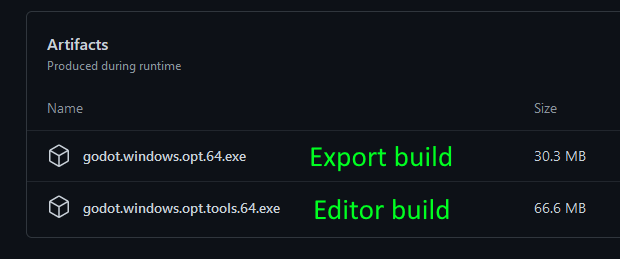
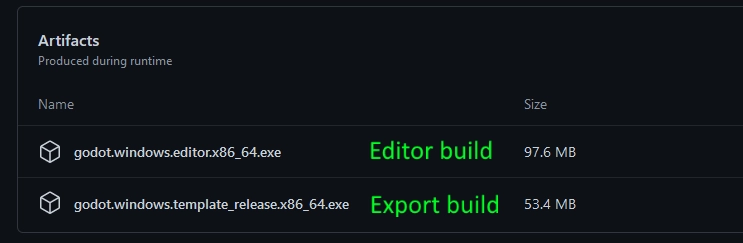
Document how to export with the module

diff --git a/doc/source/getting_the_module.md b/doc/source/getting_the_module.md
@@ -28,7 +28,7 @@ Available on Github Actions:
 These builds correspond to the `master` version depicted in the [changelog](https://github.com/Zylann/godot_voxel/blob/master/CHANGELOG.md).
 A new build is made each time commits are pushed to the main branch, but also when other developers make Pull Requests, so careful about which one you pick.
 
-In case there are multiple downloadable artifacts, the editor build will be the one with `opt.tools` in the name (because it is built with optimizations enabled, and includes tools).
+In case there are multiple downloadable artifacts, the editor build will be the one with `editor` in the name.
 
 ![Github actions screenshot](images/github_actions_windows_artifacts.webp)
 
@@ -88,3 +88,31 @@ If you cloned Godot and Voxel Tools, you can use git to update your local code.
 
 !!! note
 	Since you are pulling from two development branches, it's probable that on occasion your build won't compile, your project won't open, or your Voxel Tools won't work properly or even crash Godot. To minimize downtime, save your successful builds. Move them out of the build folder and rename them with the version number (e.g. godot-3.2+ee5ba3e.exe). This way, you can continue to use previously working builds until the Godot or Voxel developers fix whatever is broken. It is generally desired by all that code published to repositories will at least build, but stuff happens.
+
+
+Export templates
+-------------------
+
+### Getting a template
+
+In Godot Engine, exporting your game as an executable for a target platform requires a "template". A template is an optimized build of Godot Engine without the editor stuff. Godot combines your project files with that template and makes the final executable.
+
+If you only download the Godot Editor with the module, it will allow you to develop and test your game, but if you export without any other setup, Godot will attempt to use a vanilla template, which won't have the module. Therefore, it will fail to open some scenes.
+
+As mentionned in earlier sections, there are currently no "official" builds of this module, but you can get template builds at the same place as [latest development versions](#development-builds). Template builds are those with `template` in their name.
+
+If there is no template available for your platform, you may build it yourself. This is the same as building Godot with the module, only with different options. See the [Godot Documentation](https://docs.godotengine.org/en/latest/development/compiling/index.html) for more details, under the "building export templates" category of the platform you target.
+
+### Using a template
+
+Once you have a template build, tell Godot to use it in the Export configurations. Fill in the path to a custom template in the "Custom Template" section:
+
+![Screenshot of Godot export configuration window with a custom template assigned for Windows](images/export_template_window.webp)
+
+### GDExtension
+
+In the future, it is hoped that none of this manual work is required. Rather than getting a custom version of the engine, you would download Voxel from the asset library. Developping, testing, exporting would just work without extra setup.
+
+GDExtension is what would make this possible. This module can already [compile with GodotCpp](module_development.md#gdextension) so it can be loaded as a GDExtension library.
+Unfortunately, there are still [too many problems](https://github.com/Zylann/godot_voxel/issues/442) for the module to work properly. For the time being, a custom engine build is more reliable.
+
